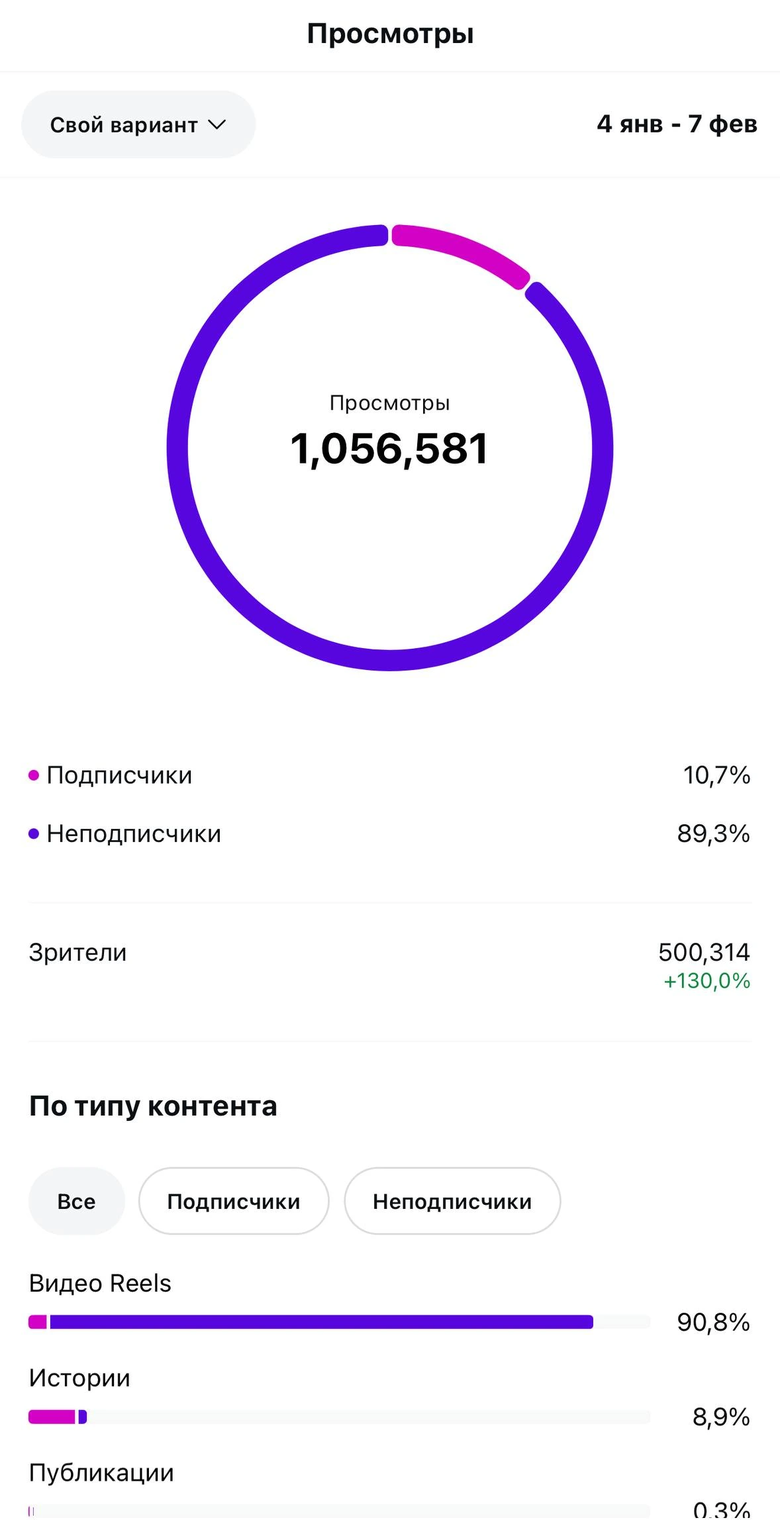
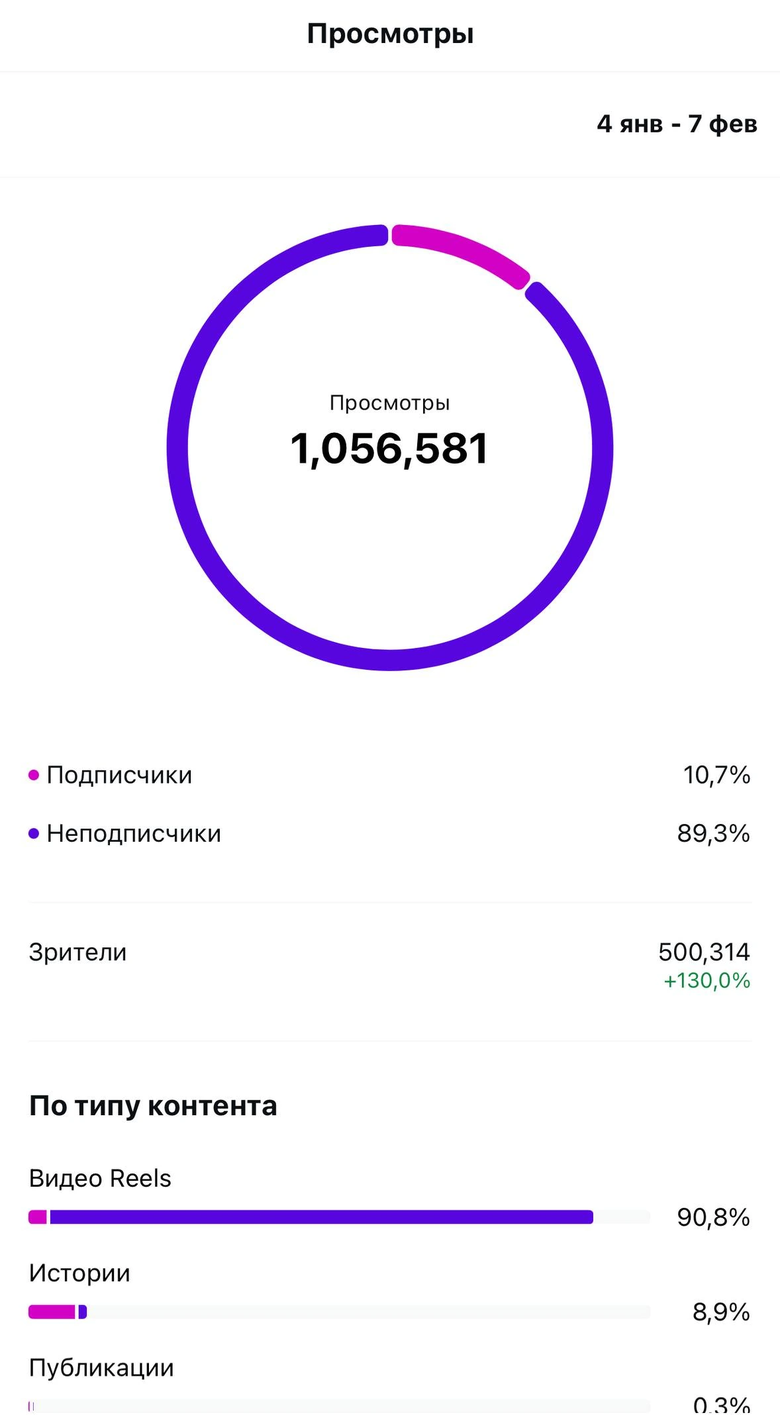
upd after review

diff --git a/index.html b/index.html
@@ -26,7 +26,7 @@
 <nav aria-label="Главная навигация">
 <a href="#cases">Кейсы</a><a href="#services">Услуги</a><a href="#about">Обо мне</a>
 </nav>
-<a class="header-contact" href="https://t.me/lizzza_aa" rel="noopener noreferrer" target="_blank">Связаться <span aria-hidden="true">↗</span></a>
+<a class="header-contact" href="https://t.me/lizzza_aa" rel="noopener noreferrer" target="_blank">Связаться<span class="contact-badge" aria-hidden="true"><svg class="icon-arrow" viewBox="0 0 24 24" fill="none" stroke="currentColor" stroke-width="2" stroke-linecap="round" stroke-linejoin="round" aria-hidden="true"><path d="M7 17 17 7M9 7h8v8"/></svg></span></a>
 </header>
 <main id="main">
 <section aria-labelledby="hero-title" class="hero" id="top">
@@ -34,7 +34,7 @@
 <p class="eyebrow"><span class="blur-in">Лиза</span> <span class="blur-in">Понетайкина</span> <span class="blur-in">/</span> <span class="blur-in">SMM-специалист</span></p>
 <h1 id="hero-title"><span class="rise-mask"><span class="sr-only">SMM</span><span aria-hidden="true" class="rise-chars"><span class="rise-char">S</span><span class="rise-char">M</span><span class="rise-char">M</span></span></span><em class="rise-mask"><span class="rise-line">ПОРТФОЛИО</span></em></h1>
 <p class="hero-description blur-in">Продвижение брендов через стратегию и&nbsp;контент. Помогаю бизнесу привлекать клиентов через социальные сети.</p>
-<a class="button button-light wipe-in" href="https://t.me/lizzza_aa" rel="noopener noreferrer" target="_blank"><span class="blur-in">Написать в Telegram</span> <span aria-hidden="true" class="blur-in">↗</span></a>
+<a class="button button-light wipe-in" href="https://t.me/lizzza_aa" rel="noopener noreferrer" target="_blank"><span class="blur-in">Написать в Telegram</span> <span aria-hidden="true" class="blur-in"><svg class="icon-arrow" viewBox="0 0 24 24" fill="none" stroke="currentColor" stroke-width="2" stroke-linecap="round" stroke-linejoin="round" aria-hidden="true"><path d="M7 17 17 7M9 7h8v8"/></svg></span></a>
 </div>
 <div class="hero-portrait">
 <img alt="Лиза Понетайкина" fetchpriority="high" height="4062" sizes="(max-width: 700px) 48vw, (min-width: 1600px) 684px, 45vw" src="assets/work/portrait-800.webp" srcset="assets/work/portrait-480.webp 480w, assets/work/portrait-800.webp 800w, assets/work/portrait-1200.webp 1200w, assets/work/portrait-1600.webp 1600w" width="2764"/>
@@ -65,11 +65,12 @@
 <p class="eyebrow">Паб-ресторан / контент и коммуникация</p>
 <h3>Паб-ресторан</h3>
 <p>Добавили больше живого контента и юмора, усилили ощущение «своего места» и общение через сторис.</p>
-<div class="metrics"><div><strong>2,06 млн</strong><span>просмотров · 18&nbsp;янв — 16&nbsp;фев</span></div><div><strong>1,20 млн</strong><span>охваченных аккаунтов</span></div></div>
-<p class="case-note">Показатели из предоставленного скриншота. Год в исходной статистике не указан.</p>
-<div class="case-detail"><p>Разработала концепцию и техническое задание: стиль, цветовую палитру и принципы подачи. Дизайнер реализовал оформление по моему ТЗ. Аккаунт стал целостным, визуал — поддерживать позиционирование бренда.</p></div>
+<div class="case-detail"><p>Разработала концепцию и техническое задание: стиль, цветовую палитру и принципы подачи. Дизайнер реализовал оформление по моему ТЗ. Аккаунт стал целостным, а визуал теперь поддерживает позиционирование бренда.</p></div>
 </div>
-<a class="stat-sheet media-card" data-stat="pub" href="assets/prepared/pub-views-screen.webp" aria-haspopup="dialog"><span class="stat-header">Статистика аккаунта <span class="stat-open">Подробнее</span></span><span class="stat-period">18&nbsp;января — 16&nbsp;февраля</span><span class="stat-total"><span><small>Просмотры</small><strong>2 057 736</strong></span></span><span class="stat-row"><span>Охваченные аккаунты</span><b>1 202 124</b></span><span class="stat-footnote">Посмотреть статистику</span></a>
+<a class="stat-sheet media-card" data-stat="pub" href="assets/prepared/pub-views-screen.webp" aria-haspopup="dialog">
+    <span class="stat-header">Статистика аккаунта <span class="stat-open">Подробнее</span></span>
+    <span class="result-metrics"><span><strong>2,06 млн</strong><small>просмотров<br/>18&nbsp;янв — 16&nbsp;фев</small></span><span><strong>1,20 млн</strong><small>охваченных<br/>аккаунтов</small></span></span>
+  </a>
 </article>
 </section>
 <section aria-labelledby="stories-title" class="stories section" id="stories">
@@ -166,32 +167,33 @@
 </section>
 <section aria-labelledby="about-title" class="about section" id="about">
 <div class="about-photo"><img alt="Работа над контентом за ноутбуком" decoding="async" height="1054" loading="lazy" src="assets/work/about.webp" width="800"/></div>
-<div class="about-copy"><h2 id="about-title">Обо <em>мне</em></h2><p>Я — SMM-специалист с двухлетним опытом. Помогаю бизнесам привлекать клиентов через контент.</p><p>В основе моей работы — анализ и стратегия, качественный контент, продвижение и постоянная аналитика. Каждый шаг связан с задачами вашего проекта.</p><a class="text-link" href="https://t.me/lizzza_aa" rel="noopener noreferrer" target="_blank"><span>Расскажите о своём бренде</span> <span aria-hidden="true">↗</span></a></div>
+<div class="about-copy"><h2 id="about-title">Обо <em>мне</em></h2><p>Я — SMM-специалист с двухлетним опытом. Помогаю бизнесам привлекать клиентов через контент.</p><p>В основе моей работы — анализ и стратегия, качественный контент, продвижение и постоянная аналитика. Каждый шаг связан с задачами вашего проекта.</p><a class="text-link" href="https://t.me/lizzza_aa" rel="noopener noreferrer" target="_blank"><span>Расскажите о своём бренде</span> <span aria-hidden="true"><svg class="icon-arrow" viewBox="0 0 24 24" fill="none" stroke="currentColor" stroke-width="2" stroke-linecap="round" stroke-linejoin="round" aria-hidden="true"><path d="M7 17 17 7M9 7h8v8"/></svg></span></a></div>
 </section>
 <section aria-labelledby="process-title" class="process section">
 <div class="section-heading"><h2 id="process-title">Как мы <em>работаем</em></h2></div>
 <ol class="steps"><li><span aria-hidden="true">01</span><h3>Знакомство</h3><p>Обсуждаем ваш проект и цели.</p></li><li><span aria-hidden="true">02</span><h3>Анализ</h3><p>Изучаю нишу, конкурентов и аудиторию.</p></li><li><span aria-hidden="true">03</span><h3>Стратегия</h3><p>Разрабатываю стратегию и контент-план.</p></li><li><span aria-hidden="true">04</span><h3>Реализация</h3><p>Создаю контент и настраиваю продвижение.</p></li><li><span aria-hidden="true">05</span><h3>Аналитика</h3><p>Анализирую результаты и определяю следующие шаги.</p></li></ol>
 </section>
 <section aria-labelledby="contact-title" class="contact" id="contact">
-<div class="contact-copy"><h2 id="contact-title" data-motif=""><span class="rise-mask"><span class="rise-line">Давайте обсудим</span></span> <span class="rise-mask"><span class="rise-line">ваш <em>проект</em></span></span></h2><p class="blur-in">Расскажите о проекте, целях и о том, что хочется изменить. Обсудим, чем я могу помочь.</p><a class="button button-light wipe-in" href="https://t.me/lizzza_aa" rel="noopener noreferrer" target="_blank"><span class="blur-in">Написать в Telegram</span> <span aria-hidden="true" class="blur-in">↗</span></a><div class="contact-links">
+<div class="contact-copy"><h2 id="contact-title" data-motif=""><span class="rise-mask"><span class="rise-line">Давайте обсудим</span></span> <span class="rise-mask"><span class="rise-line">ваш <em>проект</em></span></span></h2><p class="blur-in">Расскажите о проекте, целях и о том, что хочется изменить. Обсудим, чем я могу помочь.</p><a class="button button-light wipe-in" href="https://t.me/lizzza_aa" rel="noopener noreferrer" target="_blank"><span class="blur-in">Написать в Telegram</span> <span aria-hidden="true" class="blur-in"><svg class="icon-arrow" viewBox="0 0 24 24" fill="none" stroke="currentColor" stroke-width="2" stroke-linecap="round" stroke-linejoin="round" aria-hidden="true"><path d="M7 17 17 7M9 7h8v8"/></svg></span></a><div class="contact-links">
 <a class="blur-in" href="tel:+79277915718" aria-label="Позвонить: +7 927 791-57-18"><svg viewBox="0 0 24 24" fill="none" stroke="currentColor" stroke-width="1.6" stroke-linecap="round" stroke-linejoin="round" aria-hidden="true"><path d="M7 3 4 4c-2 5 7 14 12 16l3-2-3-5-3 2c-3-1-5-3-6-6l2-2Z"/></svg></a>
 <a class="blur-in" href="https://www.instagram.com/lizzzaa.aaa/" rel="noopener noreferrer" target="_blank" aria-label="Instagram Лизы"><svg viewBox="0 0 24 24" fill="none" stroke="currentColor" stroke-width="1.6" stroke-linecap="round" stroke-linejoin="round" aria-hidden="true"><rect x="3" y="3" width="18" height="18" rx="5"/><circle cx="12" cy="12" r="4"/><circle cx="17.5" cy="6.5" r=".8" fill="currentColor" stroke="none"/></svg></a>
-</div></div>
+</div><p class="meta-note">Instagram принадлежит компании Meta, которая признана экстремистской организацией и&nbsp;запрещена в&nbsp;России.</p></div>
 <div class="contact-photo"><img alt="Телефон в руках Лизы" height="1080" loading="lazy" src="assets/prepared/contact.webp" width="1460"/></div>
 </section>
 </main>
-<footer><span>Лиза Понетайкина · SMM-портфолио</span><a href="#top">Наверх ↑</a></footer>
+<footer><span>Лиза Понетайкина · SMM-портфолио</span></footer>
+<a class="to-top is-hidden" href="#top" aria-label="Наверх"><svg viewBox="0 0 24 24" fill="none" stroke="currentColor" stroke-width="2" stroke-linecap="round" stroke-linejoin="round" aria-hidden="true"><path d="M12 19V5M6 11l6-6 6 6"/></svg></a>
 <dialog class="stats-dialog" id="stats-auto" aria-labelledby="stats-auto-title">
   <div class="stats-shell"><header class="stats-toolbar"><div><p>Статистика</p><h2 id="stats-auto-title">Автосервис</h2></div><button type="button" class="stats-close" aria-label="Закрыть статистику"><svg viewBox="0 0 24 24" aria-hidden="true"><path d="m6 6 12 12M18 6 6 18" fill="none" stroke="currentColor" stroke-width="1.6" stroke-linecap="round"/></svg></button></header>
   <div class="stats-scroll" tabindex="-1" autofocus role="region" aria-labelledby="stats-auto-title">
-    <section class="evidence-piece"><h3>Просмотры</h3><p>4&nbsp;января — 7&nbsp;февраля</p><img src="assets/prepared/auto-views-screen.webp" srcset="assets/prepared/auto-views-screen-600.webp 600w, assets/prepared/auto-views-screen-800.webp 800w, assets/prepared/auto-views-screen.webp 1178w" sizes="(max-width: 700px) calc(100vw - 24px), 616px" width="1178" height="2296" loading="lazy" alt="Исходная статистика: просмотры, Автосервис"/></section>
-    <section class="evidence-piece"><h3>Прирост подписчиков</h3><p>За месяц · 925 подписок − 49 отписок</p><img src="assets/prepared/auto-followers.webp" width="1940" height="696" loading="lazy" alt="Исходная статистика: прирост подписчиков, Автосервис"/></section>
+    <section class="evidence-piece"><h3>Просмотры</h3><p>4&nbsp;января — 7&nbsp;февраля</p><img src="assets/prepared/auto-views-screen.webp" srcset="assets/prepared/auto-views-screen-600.webp 600w, assets/prepared/auto-views-screen-800.webp 800w, assets/prepared/auto-views-screen.webp 1178w" sizes="(max-width: 700px) calc(100vw - 24px), 616px" width="1178" height="2138" loading="lazy" alt="Скриншот статистики: просмотры, Автосервис"/></section>
+    <section class="evidence-piece"><h3>Прирост подписчиков</h3><p>За месяц · 925 подписок − 49 отписок</p><img src="assets/prepared/auto-followers.webp" width="1940" height="696" loading="lazy" alt="Скриншот статистики: прирост подписчиков, Автосервис"/></section>
   </div></div>
 </dialog>
 <dialog class="stats-dialog" id="stats-pub" aria-labelledby="stats-pub-title">
   <div class="stats-shell"><header class="stats-toolbar"><div><p>Статистика</p><h2 id="stats-pub-title">Паб-ресторан</h2></div><button type="button" class="stats-close" aria-label="Закрыть статистику"><svg viewBox="0 0 24 24" aria-hidden="true"><path d="m6 6 12 12M18 6 6 18" fill="none" stroke="currentColor" stroke-width="1.6" stroke-linecap="round"/></svg></button></header>
   <div class="stats-scroll" tabindex="-1" autofocus role="region" aria-labelledby="stats-pub-title">
-    <section class="evidence-piece"><h3>Просмотры и охват</h3><p>18&nbsp;января — 16&nbsp;февраля</p><img src="assets/prepared/pub-views-screen.webp" srcset="assets/prepared/pub-views-screen-600.webp 600w, assets/prepared/pub-views-screen-800.webp 800w, assets/prepared/pub-views-screen.webp 1178w" sizes="(max-width: 700px) calc(100vw - 24px), 616px" width="1178" height="2296" loading="lazy" alt="Исходная статистика: просмотры и охват, Паб-ресторан"/></section>
+    <section class="evidence-piece"><h3>Просмотры и охват</h3><p>18&nbsp;января — 16&nbsp;февраля</p><img src="assets/prepared/pub-views-screen.webp" srcset="assets/prepared/pub-views-screen-600.webp 600w, assets/prepared/pub-views-screen-800.webp 800w, assets/prepared/pub-views-screen.webp 1178w" sizes="(max-width: 700px) calc(100vw - 24px), 616px" width="1178" height="2138" loading="lazy" alt="Скриншот статистики: просмотры и охват, Паб-ресторан"/></section>
   </div></div>
 </dialog>
 </body>

diff --git a/styles.css b/styles.css
@@ -37,7 +37,12 @@ a:focus-visible, button:focus-visible, summary:focus-visible { outline: 3px soli
 nav { display: flex; gap: 28px; justify-self: center; }
 .header-contact { justify-self: end; white-space: nowrap; }
 nav a, .header-contact { display: inline-flex; align-items: center; min-height: 44px; text-decoration: none; font-size: 14px; }
-.header-contact span { margin-left: 20px; }
+/* Contact: a cream pill with the arrow in a wine badge. Arrows are SVG: iOS draws ↗ as an emoji. */
+.header-contact { position: relative; gap: 12px; padding: 4px 4px 4px 18px; border-radius: 999px; background: var(--cream); color: var(--wine); font-weight: 600; transition: background 180ms ease, transform 140ms var(--ease-out); }
+.header-contact:active { transform: scale(.97); }
+.contact-badge { display: grid; place-items: center; width: 36px; height: 36px; border-radius: 50%; background: var(--wine); color: var(--cream); }
+.contact-badge .icon-arrow { width: 16px; height: 16px; }
+.icon-arrow { width: 1.15em; height: 1.15em; flex-shrink: 0; }
 .hero { display: grid; grid-template-columns: minmax(0,1fr) minmax(0,1fr); gap: 5%; padding-inline: var(--page-gutter); background: var(--wine); color: var(--cream); }
 /* All desktop sections use the same content boundaries. */
 .hero-copy { padding: 80px 0 64px; }
@@ -64,11 +69,7 @@ h2 { font-size: clamp(40px, 4.4vw, 64px); font-weight: 700; }
 .case { display: grid; grid-template-columns: 1fr 1fr; gap: 8%; align-items: center; }
 .case + .case { margin-top: 72px; padding-top: 72px; border-top: 1px solid var(--line); }
 .case h3 { font-size: clamp(36px, 3.6vw, 52px); margin: 18px 0 24px; }
-.case-copy > p:not(.eyebrow):not(.case-note) { max-width: 490px; color: var(--muted); font-size: 16px; }
-.metrics { display: grid; grid-template-columns: 1fr 1fr; gap: 20px; margin: 28px 0 16px; }
-.metrics strong { display: block; font-family: var(--serif); font-size: clamp(32px, 3.5vw, 50px); font-weight: 400; line-height: 1.2; letter-spacing: -.04em; font-variant-numeric: lining-nums tabular-nums; }
-.metrics span { display: block; font-size: 13px; color: var(--muted); margin-top: 8px; }
-.case-note { color: var(--muted); font-size: 13px; max-width: 450px; }
+.case-copy > p:not(.eyebrow) { max-width: 490px; color: var(--muted); font-size: 16px; }
 details { border-top: 1px solid var(--line); border-bottom: 1px solid var(--line); margin-top: 24px; padding: 6px 0; font-size: 15px; }
 summary { cursor: pointer; list-style: none; display: flex; justify-content: space-between; align-items: center; gap: 16px; min-height: 48px; }
 summary::-webkit-details-marker { display: none; }
@@ -113,12 +114,19 @@ details p { padding: 8px 0 14px; color: var(--muted); }
 .contact .button { margin-top: 24px; }
 .contact-links { display: flex; flex-wrap: wrap; gap: 0 32px; margin-top: 20px; font-size: 14px; }
 .contact-links a { display: inline-flex; align-items: center; min-height: 44px; text-decoration: none; gap: 8px; }
+/* Required marking next to the Instagram link. */
+.contact-copy > .meta-note { max-width: 340px; margin-top: 14px; font-size: 12px; line-height: 1.45; color: var(--accent); }
 .contact-photo { position: relative; overflow: hidden; }
 .contact-photo img { position: absolute; inset: 0; width: 100%; height: 100%; object-fit: cover; object-position: center 45%; }
 footer { background: var(--wine); border-top: 1px solid var(--wine-line); color: var(--accent); padding: 16px var(--page-gutter); display: flex; align-items: center; justify-content: space-between; gap: 24px; font-size: 13px; }
-footer a { display: inline-flex; align-items: center; min-height: 44px; text-decoration: none; flex-shrink: 0; }
+/* Back to the top from anywhere on the page; motion.js hides it on the first screen. */
+.to-top { position: fixed; right: calc(16px + env(safe-area-inset-right)); bottom: calc(16px + env(safe-area-inset-bottom)); z-index: 30; display: grid; place-items: center; width: 48px; height: 48px; border-radius: 50%; background: var(--wine); color: var(--cream); border: 1.5px solid var(--accent); box-shadow: 0 6px 18px #19060240; transition: opacity 200ms ease, transform 200ms var(--ease-out), visibility 0s; }
+.to-top svg { width: 22px; height: 22px; }
+.to-top:active { transform: scale(.94); }
+.to-top.is-hidden { opacity: 0; visibility: hidden; transform: translate3d(0, 12px, 0); transition: opacity 200ms ease, transform 200ms var(--ease-out), visibility 0s 200ms; }
 @media (hover: hover) and (pointer: fine) {
-  nav a:hover, .header-contact:hover { color: var(--accent); }
+  nav a:hover { color: var(--accent); }
+  .header-contact:hover { background: var(--accent); }
   .button:hover { background: var(--accent); }
 }
 
@@ -131,8 +139,6 @@ footer a { display: inline-flex; align-items: center; min-height: 44px; text-dec
   .case, .about { gap: 5%; }
   .section-heading { gap: 28px 5%; }
   .case h3 { font-size: 38px; }
-  .metrics { gap: 14px; }
-  .metrics strong { font-size: 36px; }
   .service-grid .service-card { padding-right: 28px; }
   .service-grid .service-card:nth-child(even) { padding-left: 28px; }
   .steps { gap: 16px; }
@@ -146,7 +152,6 @@ footer a { display: inline-flex; align-items: center; min-height: 44px; text-dec
   nav a { font-size: 13px; }
   nav a[href="#about"] { display: none; }
   .header-contact { font-size: 13px; }
-  .header-contact span { margin-left: 8px; }
   .hero { grid-template-columns: 1.1fr 1fr; gap: 24px 16px; padding: 32px 24px 28px; align-items: center; }
   .hero-copy { display: contents; }
   .hero .eyebrow { grid-column: 1/-1; max-width: none; font-size: 11px; text-transform: none; letter-spacing: .02em; }
@@ -165,8 +170,6 @@ footer a { display: inline-flex; align-items: center; min-height: 44px; text-dec
   .case-copy .eyebrow { font-size: 12px; letter-spacing: .04em; text-transform: none; }
   .case-image { aspect-ratio: 4/5; max-height: 560px; }
   .case + .case { margin-top: 48px; padding-top: 48px; }
-  .metrics strong { font-size: 38px; }
-  .metrics span { font-size: 13px; }
   .case-pub .case-image { order: 0; }
   .evidence-links { flex-direction: column; align-items: flex-start; }
   .service-grid { grid-template-columns: 1fr; }
@@ -195,16 +198,14 @@ footer a { display: inline-flex; align-items: center; min-height: 44px; text-dec
   .hero { padding-left: 20px; padding-right: 20px; }
   .hero h1 { font-size: 54px; }
   .hero .eyebrow { font-size: 12px; }
-  .metrics { gap: 12px; }
-  .metrics strong { font-size: 32px; }
   .section, .contact-copy { padding-left: 20px; padding-right: 20px; }
 }
 @media (prefers-reduced-motion: reduce) {
-  .button { transition: none; }
-  .button:active { transform: none; }
+  .button, .header-contact, .to-top, .to-top.is-hidden { transition: none; }
+  .button:active, .header-contact:active, .to-top:active { transform: none; }
 }
 @media print {
-  .header, .hero-next, .button, dialog { display: none; }
+  .header, .hero-next, .button, dialog, .to-top { display: none; }
   .hero, .contact, footer { background: var(--paper); color: var(--ink); }
   .hero-description, .contact-copy > p { color: var(--ink); }
   .section { padding-top: 32px; padding-bottom: 32px; }
@@ -237,13 +238,6 @@ button, a { -webkit-tap-highlight-color: transparent; }
 /* On a narrow card «Подробнее» moves under the title instead of splitting it. */
 .stat-header { display: flex; flex-wrap: wrap; justify-content: space-between; align-items: center; gap: 12px; font-size: 20px; font-weight: 600; }
 .stat-open { font-size: 12px; font-weight: 400; border-bottom: 1px solid var(--muted); }
-.stat-period { display: block; margin-top: 8px; font-size: 13px; color: var(--muted); }
-.stat-total { display: block; margin: 28px 0 24px; }
-.stat-total small { display: block; font-size: 14px; color: var(--muted); margin-bottom: 4px; }
-.stat-total strong { display: block; font: 400 clamp(38px, 4vw, 58px)/1.15 var(--serif); font-variant-numeric: lining-nums tabular-nums; letter-spacing: -.04em; }
-.stat-row { display: flex; justify-content: space-between; gap: 16px; padding: 20px 0; border-top: 1px solid var(--line); font-size: 14px; }
-.stat-row b { white-space: nowrap; font-variant-numeric: tabular-nums; }
-.stat-footnote { display: block; color: var(--muted); font-size: 12px; }
 .result-metrics { display: grid; grid-template-columns: 1.15fr 1fr; gap: 16px; margin-top: 24px; }
 .result-metrics strong { display: block; font: 38px/1.1 var(--serif); letter-spacing: -.04em; white-space: nowrap; }
 .result-metrics small { display: block; margin-top: 10px; font-size: 13px; color: var(--muted); line-height: 1.5; }
@@ -356,7 +350,11 @@ button, a { -webkit-tap-highlight-color: transparent; }
   :root { --story-top: 64px; --page-gutter: max(22px, env(safe-area-inset-left), env(safe-area-inset-right)); }
   /* One phone gutter, 22px, for header, sections, contact and footer. */
   .header { height: 64px; padding-inline: var(--page-gutter); }
-  .header-contact span { margin-left: 4px; }
+  /* The menu stays centred between two equal side columns, so on phones the pill is the word alone
+     (a badge would push it into the menu at 360 px); the hit area still reaches 44 px. */
+  .header-contact { min-height: 36px; padding: 0 12px; }
+  .header-contact::after { content: ""; position: absolute; inset: -4px 0; }
+  .contact-badge { display: none; }
   .hero { padding: 28px var(--page-gutter); grid-template-columns: .9fr 1.2fr; gap: 22px 14px; }
   .hero-portrait { min-height: 0; margin: 0; aspect-ratio: .69; }
   .hero h1 { font-size: clamp(54px,16vw,100px); }
@@ -393,6 +391,10 @@ button, a { -webkit-tap-highlight-color: transparent; }
   footer { padding-inline: var(--page-gutter); }
   .stats-dialog { width: 100%; height: 100dvh; margin: 0; border-radius: 0; }
   .stats-toolbar { padding-top: max(12px,env(safe-area-inset-top)); }
+}
+/* At 320 px the pill keeps a clear gap to the centred menu. */
+@media (max-width: 359px) {
+  .header-contact { padding: 0 9px; font-size: 12px; }
 }
 /* Stack comparisons on phones and portrait tablets; frame starts below its title. */
 @media (max-width: 700px), (min-width: 701px) and (max-width: 1100px) and (orientation: portrait) {

diff --git a/motion.js b/motion.js
@@ -64,9 +64,9 @@
       }
     };
     const observer = new IntersectionObserver(reveal, {rootMargin: '0px 0px 40px 0px', threshold: 0});
-    // The tall side-entering story cards (the COVID pair) start once their top passes 65% of the
-    // screen, about 40% of the card in view; from the screen edge the 1.1 s entrance was over unseen.
-    const lateObserver = new IntersectionObserver(reveal, {rootMargin: '0px 0px -35% 0px', threshold: 0});
+    // The tall side-entering story cards (the COVID pair) start once their top reaches the middle of
+    // the screen, so the 1.1 s entrance plays while the card is in view, not before it.
+    const lateObserver = new IntersectionObserver(reveal, {rootMargin: '0px 0px -50% 0px', threshold: 0});
     observers = [observer, lateObserver];
     // Visible and previously read content never disappears on return.
     [...targets, ...motifs].forEach(el => {
@@ -107,10 +107,13 @@
     el, sticky: el.querySelector('.comparison-sticky'),
     before: el.querySelector('.compare-before'), after: el.querySelector('.compare-after')
   }));
+  // The back-to-top button appears once the first screen has been scrolled past.
+  const toTop = document.querySelector('.to-top');
   let scheduled = false;
   function render() {
     scheduled = false;
     const y = scrollY;
+    toTop?.classList.toggle('is-hidden', y < innerHeight * .8);
     scenes.forEach(scene => {
       if (!scene.enabled) return;
       const linear = Math.max(0, Math.min(1, ((y - scene.start) / scene.distance - .1) / .8));

diff --git a/PROJECT.md b/PROJECT.md
@@ -1,3 +1,16 @@
+## 14 октября 2026: правки после просмотра на iPhone
+
+- «Связаться» в шапке — кремовая таблетка; на ширине >700 px со стрелкой в винном кружке, на телефоне только слово (меню центрировано между равными боковыми колонками, кружок упирался бы в меню на 360 px). Проверено на 320/360/390/768/1440: меню по центру, зазор до таблетки 13/22/35 px, горизонтальной прокрутки нет.
+- Все стрелки «↗» заменены на SVG: iOS рисовал символ как эмодзи в синем квадрате.
+- «После COVID» стартует, когда верх карточки доходит до середины экрана (было 65%).
+- Кнопка «наверх» — фиксированная, правый нижний угол с учётом safe area; скрыта на первом экране, появляется после 0,8 высоты окна (motion.js). Без анимации при reduced-motion, в печати скрыта.
+- Статистика просмотров: вырезаны нарисованные табы «Все / Подписчики / Неподписчики»; «Видео Reels» поднят на их место (1178×2138 и размеры 800/600).
+- Текст: удалена служебная фраза «Показатели из предоставленного скриншота. Год в исходной статистике не указан» (была с первой версии); исправлено «а визуал теперь поддерживает позиционирование бренда»; alt «Исходная статистика» → «Скриншот статистики».
+- Карточка паба: убран дубль «Посмотреть статистику» — вся карточка открывает окно, «Подробнее» сверху, как у автосервиса.
+- Под иконками контактов: «Instagram принадлежит компании Meta, которая признана экстремистской организацией и запрещена в России».
+- Прирост подписчиков только у автосервиса — так в исходниках (у паба в pub-stats.png только просмотры).
+- Дополнение: ссылка «Наверх ↑» в подвале убрана (есть фиксированная кнопка); на скриншотах просмотров закрашен выпадающий «Свой вариант / Последние 30 дней», справа остались даты. Карточка паба — в том же виде, что «Результаты» у автосервиса: 2,06 млн просмотров (18 янв — 16 фев) и 1,20 млн охваченных аккаунтов в одном ряду; неиспользуемые стили карточки и ссылки подвала удалены. Проверено на 320/390/1440: цифры помещаются, горизонтальной прокрутки нет.
+
 ## 14 октября 2026: HD-фото, целые телефоны в сравнениях, «До/После», поздний старт COVID
 
 Решения пользователя: улучшать только статистику просмотров (автосервис, паб) и ленты «До и после»; сторис, «Обо мне», портрет и контакт не трогать; прирост подписчиков оставлен прежним.

diff --git a/PLAN.md b/PLAN.md
@@ -1,3 +1,11 @@
+## 14 октября 2026: правки после просмотра на iPhone
+
+- [x] Таблетка «Связаться», SVG-стрелки вместо «↗», кнопка «наверх», поздний старт COVID.
+- [x] Табы вырезаны из скриншотов статистики; служебная фраза и оборванная фраза в тексте исправлены; дубль в карточке паба убран; пометка про Meta.
+- [x] Ссылка «Наверх ↑» в подвале и выпадающий список на скриншотах убраны; карточка паба в виде «Результаты».
+- [x] Блок цифр в тексте паба убран (повторял карточку); цифры только в карточке, как у автосервиса. Стили .metrics удалены.
+- [ ] Пользователь смотрит; commit/push — пользователь.
+
 ## 14 октября 2026: HD-фото и правки по скриншотам пользователя
 
 - [x] Reels: лицо в плитке 13,737 из исходника, счётчик и иконка чёткие.
